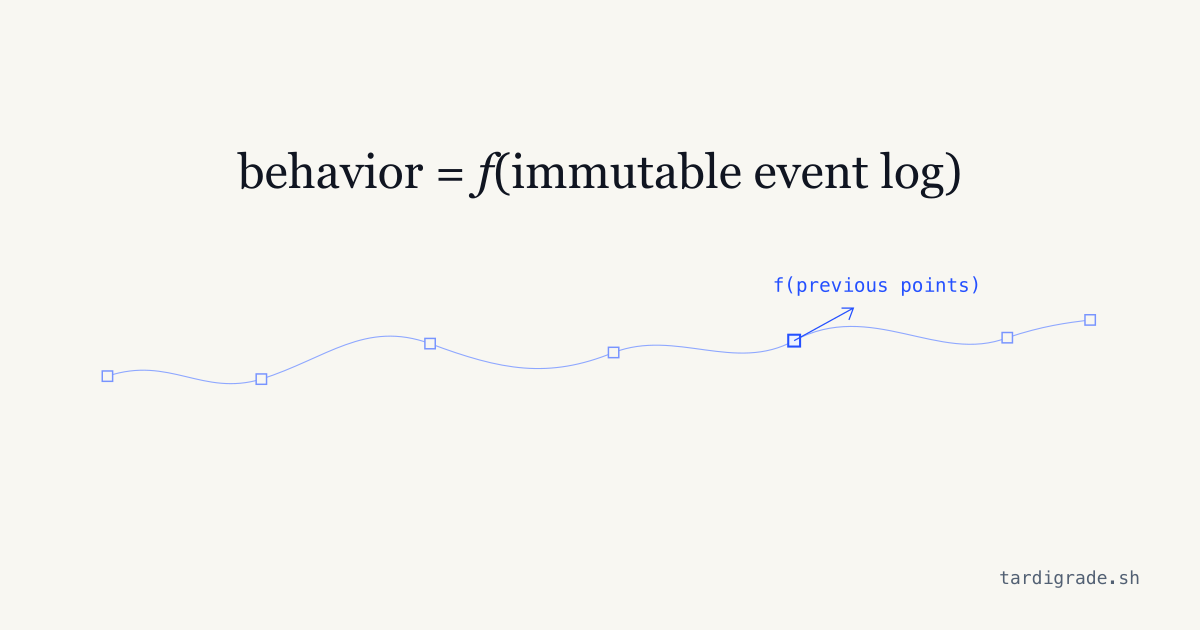
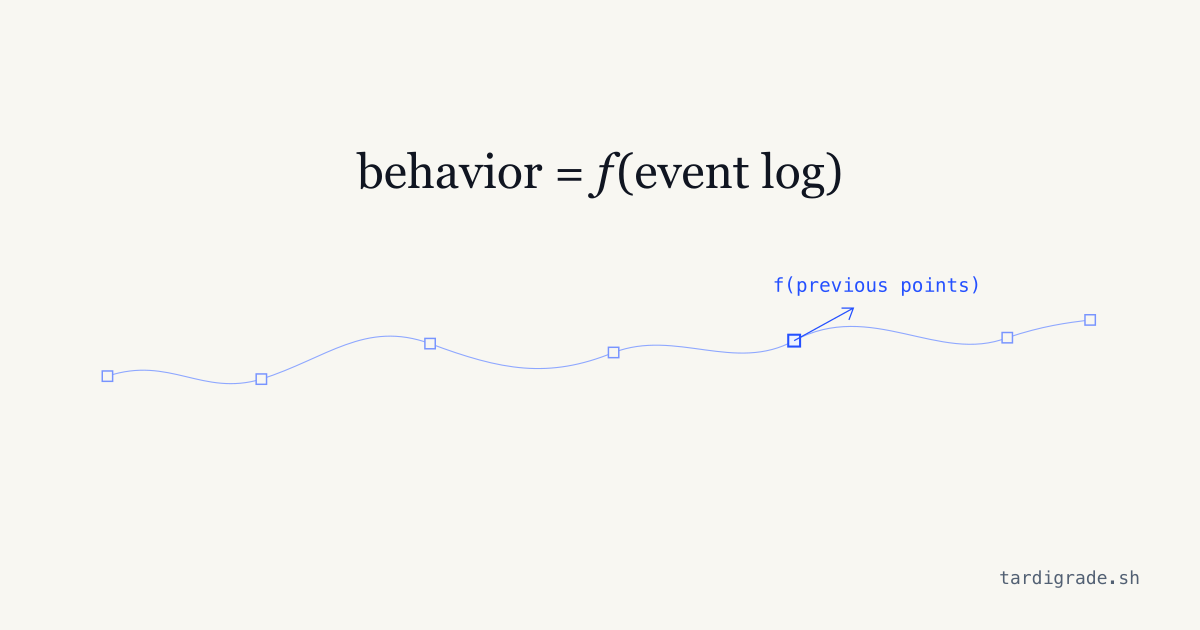
docs(web): sharpen behavior explanation

Changed region(s): [[0.185, 0.2413, 0.8017, 0.3317]]

diff --git a/apps/web/src/styles.css b/apps/web/src/styles.css
@@ -653,6 +653,8 @@ h1 span { display: block; white-space: nowrap; }
 .compaction-flow-event-log li::before { width: 24px; font-size: 9px; }
 .compaction-flow-event-log code { font-size: 11px; }
 .compaction-flow-event-log code + code { font-size: 9px; }
+.compaction-flow-event-log .compaction-flow-checkpoint { background: var(--moss-wash); }
+.compaction-flow-event-log .compaction-flow-checkpoint code:first-of-type { color: var(--moss-ink); font-weight: 500; }
 .compaction-flow-arrow { display: grid; justify-items: center; gap: 5px; color: var(--faint); }
 .compaction-flow-arrow span { font-family: var(--mono); font-size: 9px; letter-spacing: .04em; }
 .compaction-flow-arrow svg { width: 48px; height: 20px; overflow: visible; }

diff --git a/apps/web/src/docs/components/diagrams/CompactionMachineDiagram.tsx b/apps/web/src/docs/components/diagrams/CompactionMachineDiagram.tsx
@@ -28,7 +28,7 @@ export const CompactionMachineDiagram = (): ReactElement => (
           <li><code>MessageReceived</code></li>
           <li><code>ToolCalled</code></li>
           <li><code>ToolReturned</code></li>
-          <li><code>CompactionCompleted</code><code>summary</code></li>
+          <li className="compaction-flow-checkpoint"><code>CompactionCompleted</code><code>summary</code></li>
           <li><code>MessageReceived</code></li>
           <li><code>ToolCalled</code></li>
           <li><code>MessageReceived</code></li>

diff --git a/README.md b/README.md
@@ -18,13 +18,9 @@ Tardigrade is a typescript framework for building modular agents around an immut
 ### Agents that can self-improve
 As models get increasingly smart, they will be capable of writing their own harnesses to improve themselves ([Meta-Harness](https://arxiv.org/abs/2603.28052)). A harness that is too rigid and complex is a bottleneck to this. We need something more composable, and easy to author.
 
-We took inspiration from React. React derives its component tree and declared effects from state (`{ UI, effects } = f(state)`). A Tardigrade component is a [Moore machine](https://en.wikipedia.org/wiki/Moore_machine) over events. It updates its state for each event, then derives a view and transitions from that state.
+We took inspiration from React. React derives its component tree and declared effects from state. Tardigrade applies the same idea to agent harnesses. Each component derives a view and enabled transitions from an event log.
 
-<p align="center"><code>S₀ = initial()</code></p>
-
-<p align="center"><code>Sₙ₊₁ = step(Sₙ, eₙ₊₁)</code></p>
-
-<p align="center"><code>{ view, transitions } = output(Sₙ)</code></p>
+<p align="center"><code>{ view, transitions } = f(event log)</code></p>
 
 ## Why Tardigrade
 
